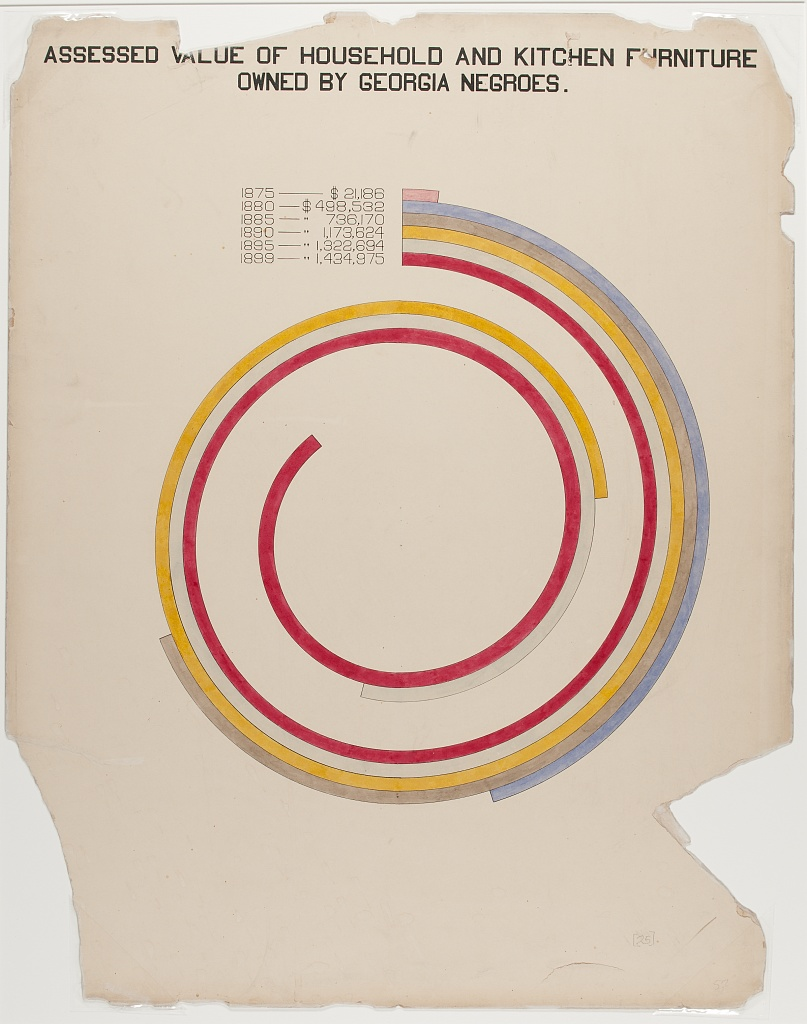
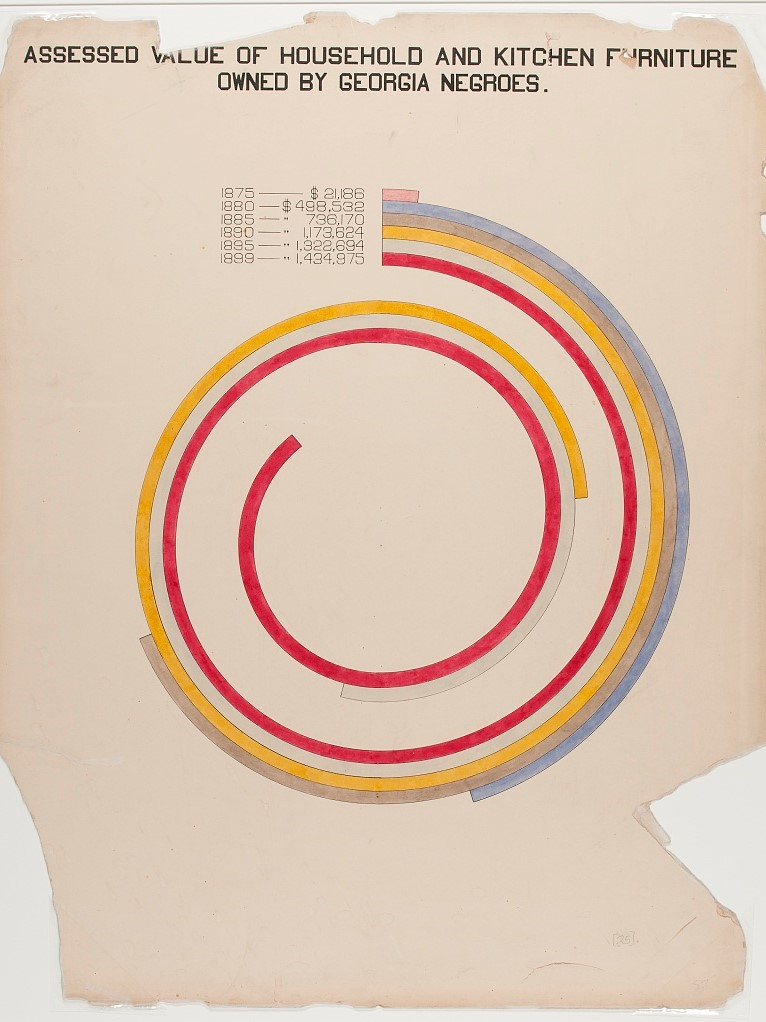
Commit challenge 7

diff --git a/README.md b/README.md
@@ -46,6 +46,13 @@ Challenge 6</h3>
 </p>
 
 <h3 align="center">
+Challenge 7</h3>
+
+<p align="center">
+<img src="https://github.com/nrennie/dubois_challenge/blob/main/images/challenge_07.jpg?raw=true" width="50%"><img src="https://github.com/nrennie/dubois_challenge/blob/main/images/original_07.jpg?raw=true" width="50%">
+</p>
+
+<h3 align="center">
 Challenge 10</h3>
 
 <p align="center">
